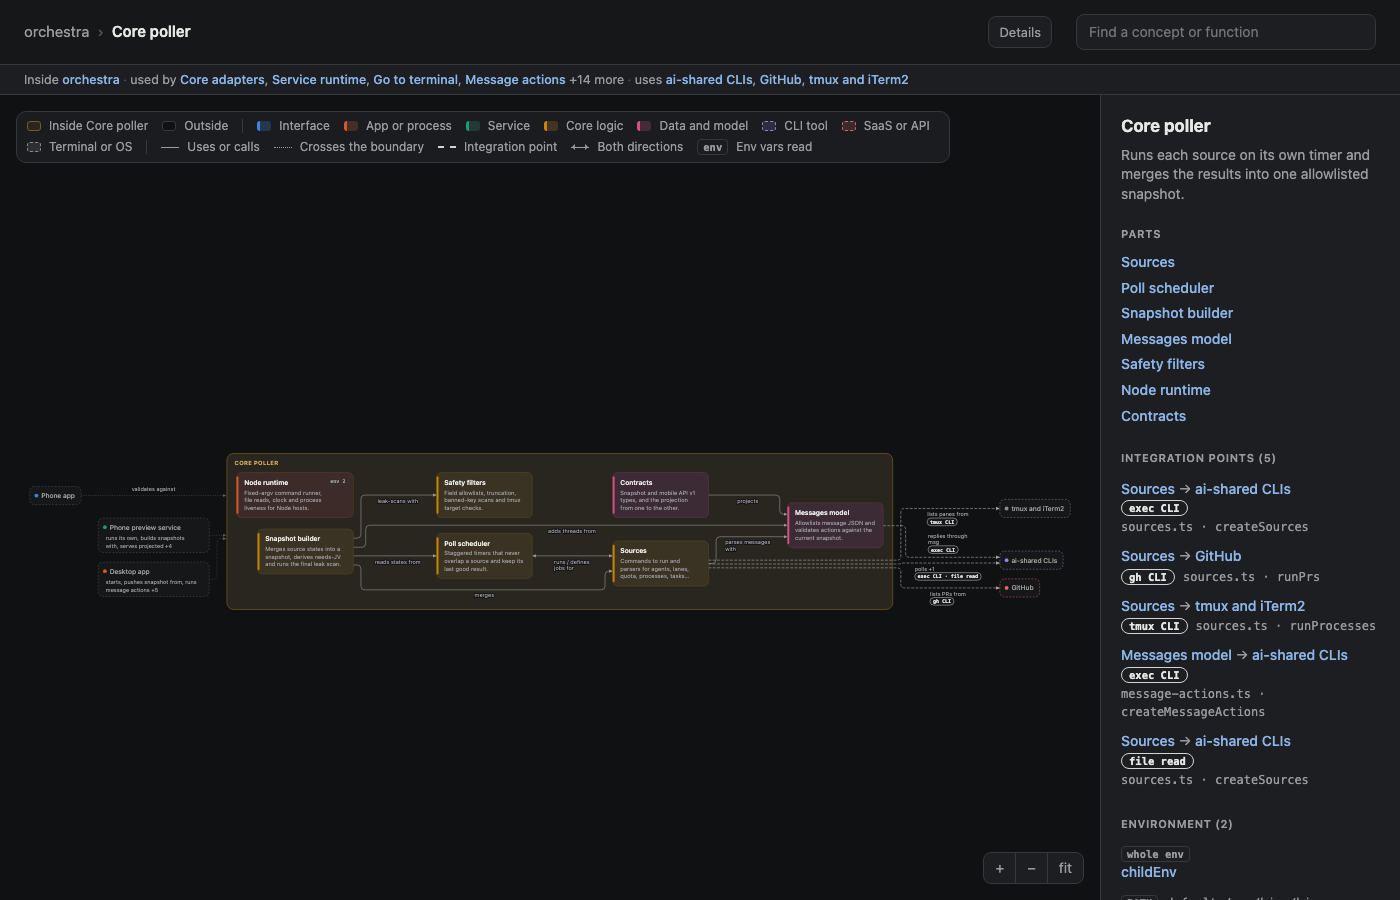
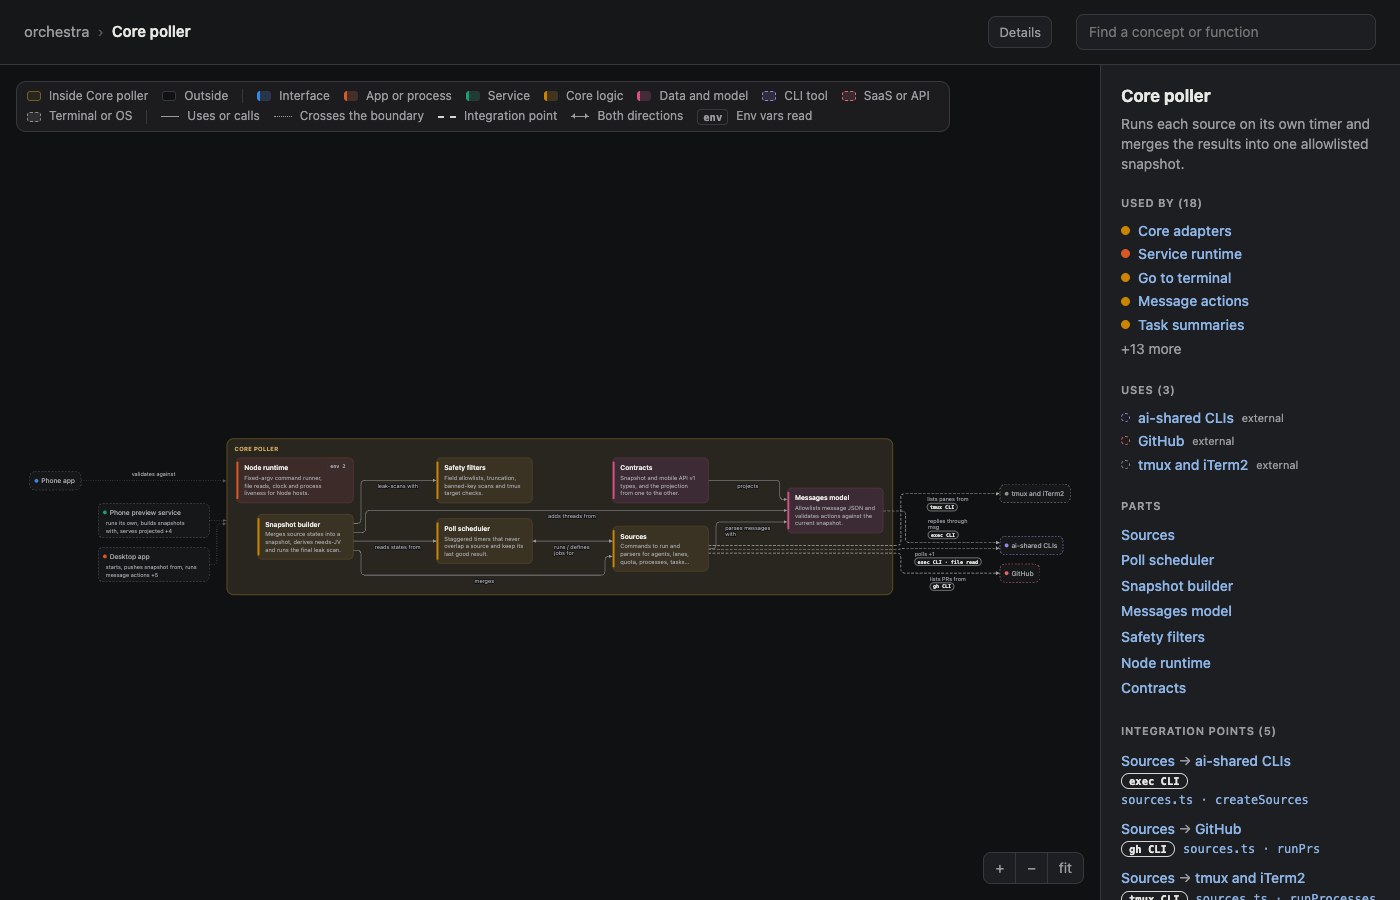
Move used by and uses from the top strip into the concept map drawer with hover linking

diff --git a/mockup/app.js b/mockup/app.js
@@ -97,7 +97,6 @@ function route() {
   restore = refit ? null : !first && prev.focus === view.focus && prev.mode === view.mode ? { ...cam } : camByHash[location.hash] || null;
   refit = false;
   crumbs();
-  context();
   const f = view.focus && byId[view.focus];
   const from = first ? null : last.focus;
   last = { focus: view.focus, hash: location.hash };
@@ -152,13 +151,8 @@ function crumbs() {
   }
 }
 
-// The line under the breadcrumb: where this concept sits, who uses it, what it uses. Every name is a jump.
-function context() {
-  const bar = document.getElementById("context");
-  bar.replaceChildren();
-  const c = view.focus && byId[view.focus];
-  bar.hidden = !c;
-  if (!c) return;
+// Who uses the concept in view and what it uses, at the most specific level known.
+function usage(c) {
   const within = (id) => id === c.id || ancestors(id).includes(c.id);
   const level = (id) => project(id, parentOf[c.id]) || id; // the sibling-level box for an outside concept
   const usedBy = new Set(), uses = new Set();
@@ -178,26 +172,38 @@ function context() {
   }
   // Prefer the most specific name: drop a concept when one of its descendants is listed.
   const tidy = (set) => [...set].filter((id) => ![...set].some((o) => o !== id && ancestors(o).includes(id)));
-  const names = (ids) => {
-    const span = el("span");
-    const add = (list) => list.forEach((id) => {
-      if (span.childElementCount) span.append(", ");
-      const x = byId[id];
-      span.append(link(x.name, () => (x.ext ? go(view.focus, id) : jump(id, null, { force: true }))));
-    });
-    add(ids.slice(0, 4));
-    if (ids.length > 4) {
-      const more = link(`+${ids.length - 4} more`, () => { more.remove(); add(ids.slice(4)); bar.classList.add("open"); });
-      more.classList.add("more");
-      span.append(" ", more);
-    }
-    return span;
-  };
-  const parent = parentOf[c.id];
-  bar.append("Inside ", link(parent ? byId[parent].name : M.workspace, () => go(parent)));
-  const by = tidy(usedBy), to = tidy(uses);
-  if (by.length) bar.append(el("span", "sep", " · "), "used by ", names(by));
-  if (to.length) bar.append(el("span", "sep", " · "), "uses ", names(to));
+  return { by: tidy(usedBy), to: tidy(uses) };
+}
+
+// Two concepts match for hover linking when one contains the other.
+const related = (a, b) => a === b || ancestors(a).includes(b) || ancestors(b).includes(a);
+
+function linkHover(concept, on) {
+  for (const x of document.querySelectorAll("#diagram [data-concept], #drawer [data-concept]")) {
+    if (related(x.dataset.concept, concept)) x.classList.toggle("linked", on);
+  }
+}
+
+function usageList(d, title, ids) {
+  if (!ids.length) return;
+  d.append(el("h3", "", `${title} (${ids.length})`));
+  const ul = el("ul", "usage");
+  const add = (list) => list.forEach((id) => {
+    const x = byId[id], li = el("li");
+    li.dataset.concept = id;
+    li.append(el("span", "dot " + (x.ext ? `ext kind-${x.kind}` : `role-${x.role}`)));
+    li.append(link(x.name, () => (x.ext ? go(view.focus, id) : jump(id, null, { force: true }))));
+    if (x.ext) li.append(el("span", "tag", "external"));
+    li.onmouseenter = () => linkHover(id, true);
+    li.onmouseleave = () => linkHover(id, false);
+    ul.insertBefore(li, moreLi.isConnected ? moreLi : null);
+  });
+  const moreLi = el("li");
+  const more = link(`+${ids.length - 5} more`, () => { moreLi.remove(); add(ids.slice(5)); });
+  more.classList.add("more");
+  d.append(ul);
+  add(ids.slice(0, 5));
+  if (ids.length > 5) { moreLi.append(more); ul.append(moreLi); }
 }
 
 // ---------- concept diagrams ----------
@@ -822,6 +828,11 @@ function render(out, nodes, edges, onClick, enter, onDbl) {
     const m = meta[n.id];
     if (m.children) {
       const g = svgEl("g", { class: m.cls + (glowing.has(n.id) ? " glow" : ""), transform: `translate(${x},${y})` });
+      if (m.concept) {
+        g.dataset.concept = m.concept;
+        g.onmouseenter = () => linkHover(m.concept, true);
+        g.onmouseleave = () => linkHover(m.concept, false);
+      }
       g.append(svgEl("rect", { class: "frame", width: n.width, height: n.height, rx: 14 }));
       const t = svgEl("text", { class: "label", x: 16, y: 25 });
       t.textContent = m.label;
@@ -861,6 +872,12 @@ function render(out, nodes, edges, onClick, enter, onDbl) {
     g.onmouseenter = () => { hot(edgeEls, n.id, true); touch(m.touches, true); };
     g.onmouseleave = () => { hot(edgeEls, n.id, false); touch(m.touches, false); };
     g.dataset.id = n.id;
+    const concept = byId[n.id] ? n.id : m.cls.includes("ghost") && m.sym ? m.sym.concept : null;
+    if (concept && n.id !== view.focus) {
+      g.dataset.concept = concept;
+      g.addEventListener("mouseenter", () => linkHover(concept, true));
+      g.addEventListener("mouseleave", () => linkHover(concept, false));
+    }
     nodeG.append(g);
   }
   if (sel && symById[sel]) hot(edgeEls, sel, true);
@@ -1250,6 +1267,11 @@ function drawer() {
     return;
   }
   d.append(el("h2", "", c.name), el("p", "", c.summary));
+  if (!view.sel && c.id === view.focus) {
+    const u = usage(c);
+    usageList(d, "Used by", u.by);
+    usageList(d, "Uses", u.to);
+  }
   if (c.children) list(d, "Parts", c.children.map((k) => link(k.name, () => go(k.id))));
   integrationList(d, integrationPoints(c));
   if (!c.ext) envList(d, c);

diff --git a/mockup/style.css b/mockup/style.css
@@ -284,9 +284,6 @@ main { flex: 1; display: flex; min-height: 0; }
 #debug { position: absolute; left: 16px; bottom: 16px; font: 11px ui-monospace, SFMono-Regular, Menlo, monospace; padding: 4px 8px; border-radius: 6px; background: var(--panel); border: 1px solid var(--line); color: var(--text); }
 #debug[hidden] { display: none; }
 #sketch .sketch-main { overscroll-behavior: none; }
-#context { padding: 6px 24px; font-size: 12.5px; color: var(--muted); border-bottom: 1px solid var(--line); background: var(--panel); white-space: nowrap; overflow: hidden; text-overflow: ellipsis; }
-#context[hidden] { display: none; }
-#context .sep { color: var(--faint); }
 .sym.reexport rect.body { fill: var(--box); stroke: var(--faint); stroke-dasharray: 2 2; }
 .edge.reexport path { stroke-dasharray: 1 3; }
 
@@ -338,9 +335,6 @@ button.link:focus-visible, .wf[role="button"]:focus-visible, #zoom button:focus-
 #drawer .path button.link, #drawer button.link.path { font: 12px/1.5 ui-monospace, SFMono-Regular, Menlo, monospace; }
 #drawer button.overview { display: block; margin: -4px 0 14px; font-size: 12.5px; font-weight: 500; }
 #drawer p.hint { margin-top: 10px; font-size: 12.5px; }
-#context button.link { font-weight: 500; }
-#context button.more { color: var(--muted); font-weight: 400; }
-#context.open { white-space: normal; }
 .comp-panel .chip.link-chip { font-family: ui-monospace, SFMono-Regular, Menlo, monospace; font-size: 11px; color: var(--link); border: 1px solid var(--line); border-radius: 10px; padding: 1px 7px; background: var(--panel); }
 .comp-panel .tests.none { color: var(--muted); }
 
@@ -369,3 +363,12 @@ button.link:focus-visible, .wf[role="button"]:focus-visible, #zoom button:focus-
 #drawer button.link.path { color: var(--link); }
 .comp-panel summary { list-style: none; cursor: pointer; }
 .comp-panel summary h5 { display: inline-block; }
+
+/* drawer: used by / uses, hover-linked to the diagram */
+#drawer ul.usage li { display: flex; align-items: center; gap: 8px; padding: 2px 4px; margin: 0 -4px; border-radius: 6px; }
+#drawer ul.usage li.linked { background: var(--accent-soft); }
+#drawer ul.usage .dot { width: 9px; height: 9px; border-radius: 50%; background: var(--c); flex: none; }
+#drawer ul.usage .dot.ext { background: none; border: 1.5px dashed var(--c); }
+#drawer ul.usage .tag { font-size: 11px; color: var(--muted); }
+#drawer ul.usage button.more { color: var(--muted); font-weight: 400; }
+#diagram .linked rect.body, #diagram .linked rect.frame { stroke: var(--accent); stroke-width: 2; stroke-dasharray: none; }

diff --git a/mockup/index.html b/mockup/index.html
@@ -15,7 +15,6 @@
     <ul id="hits" hidden></ul>
   </div>
 </header>
-<div id="context" hidden></div>
 <main>
   <section id="stage" data-mode="diagram">
     <svg id="diagram" role="img"></svg>
